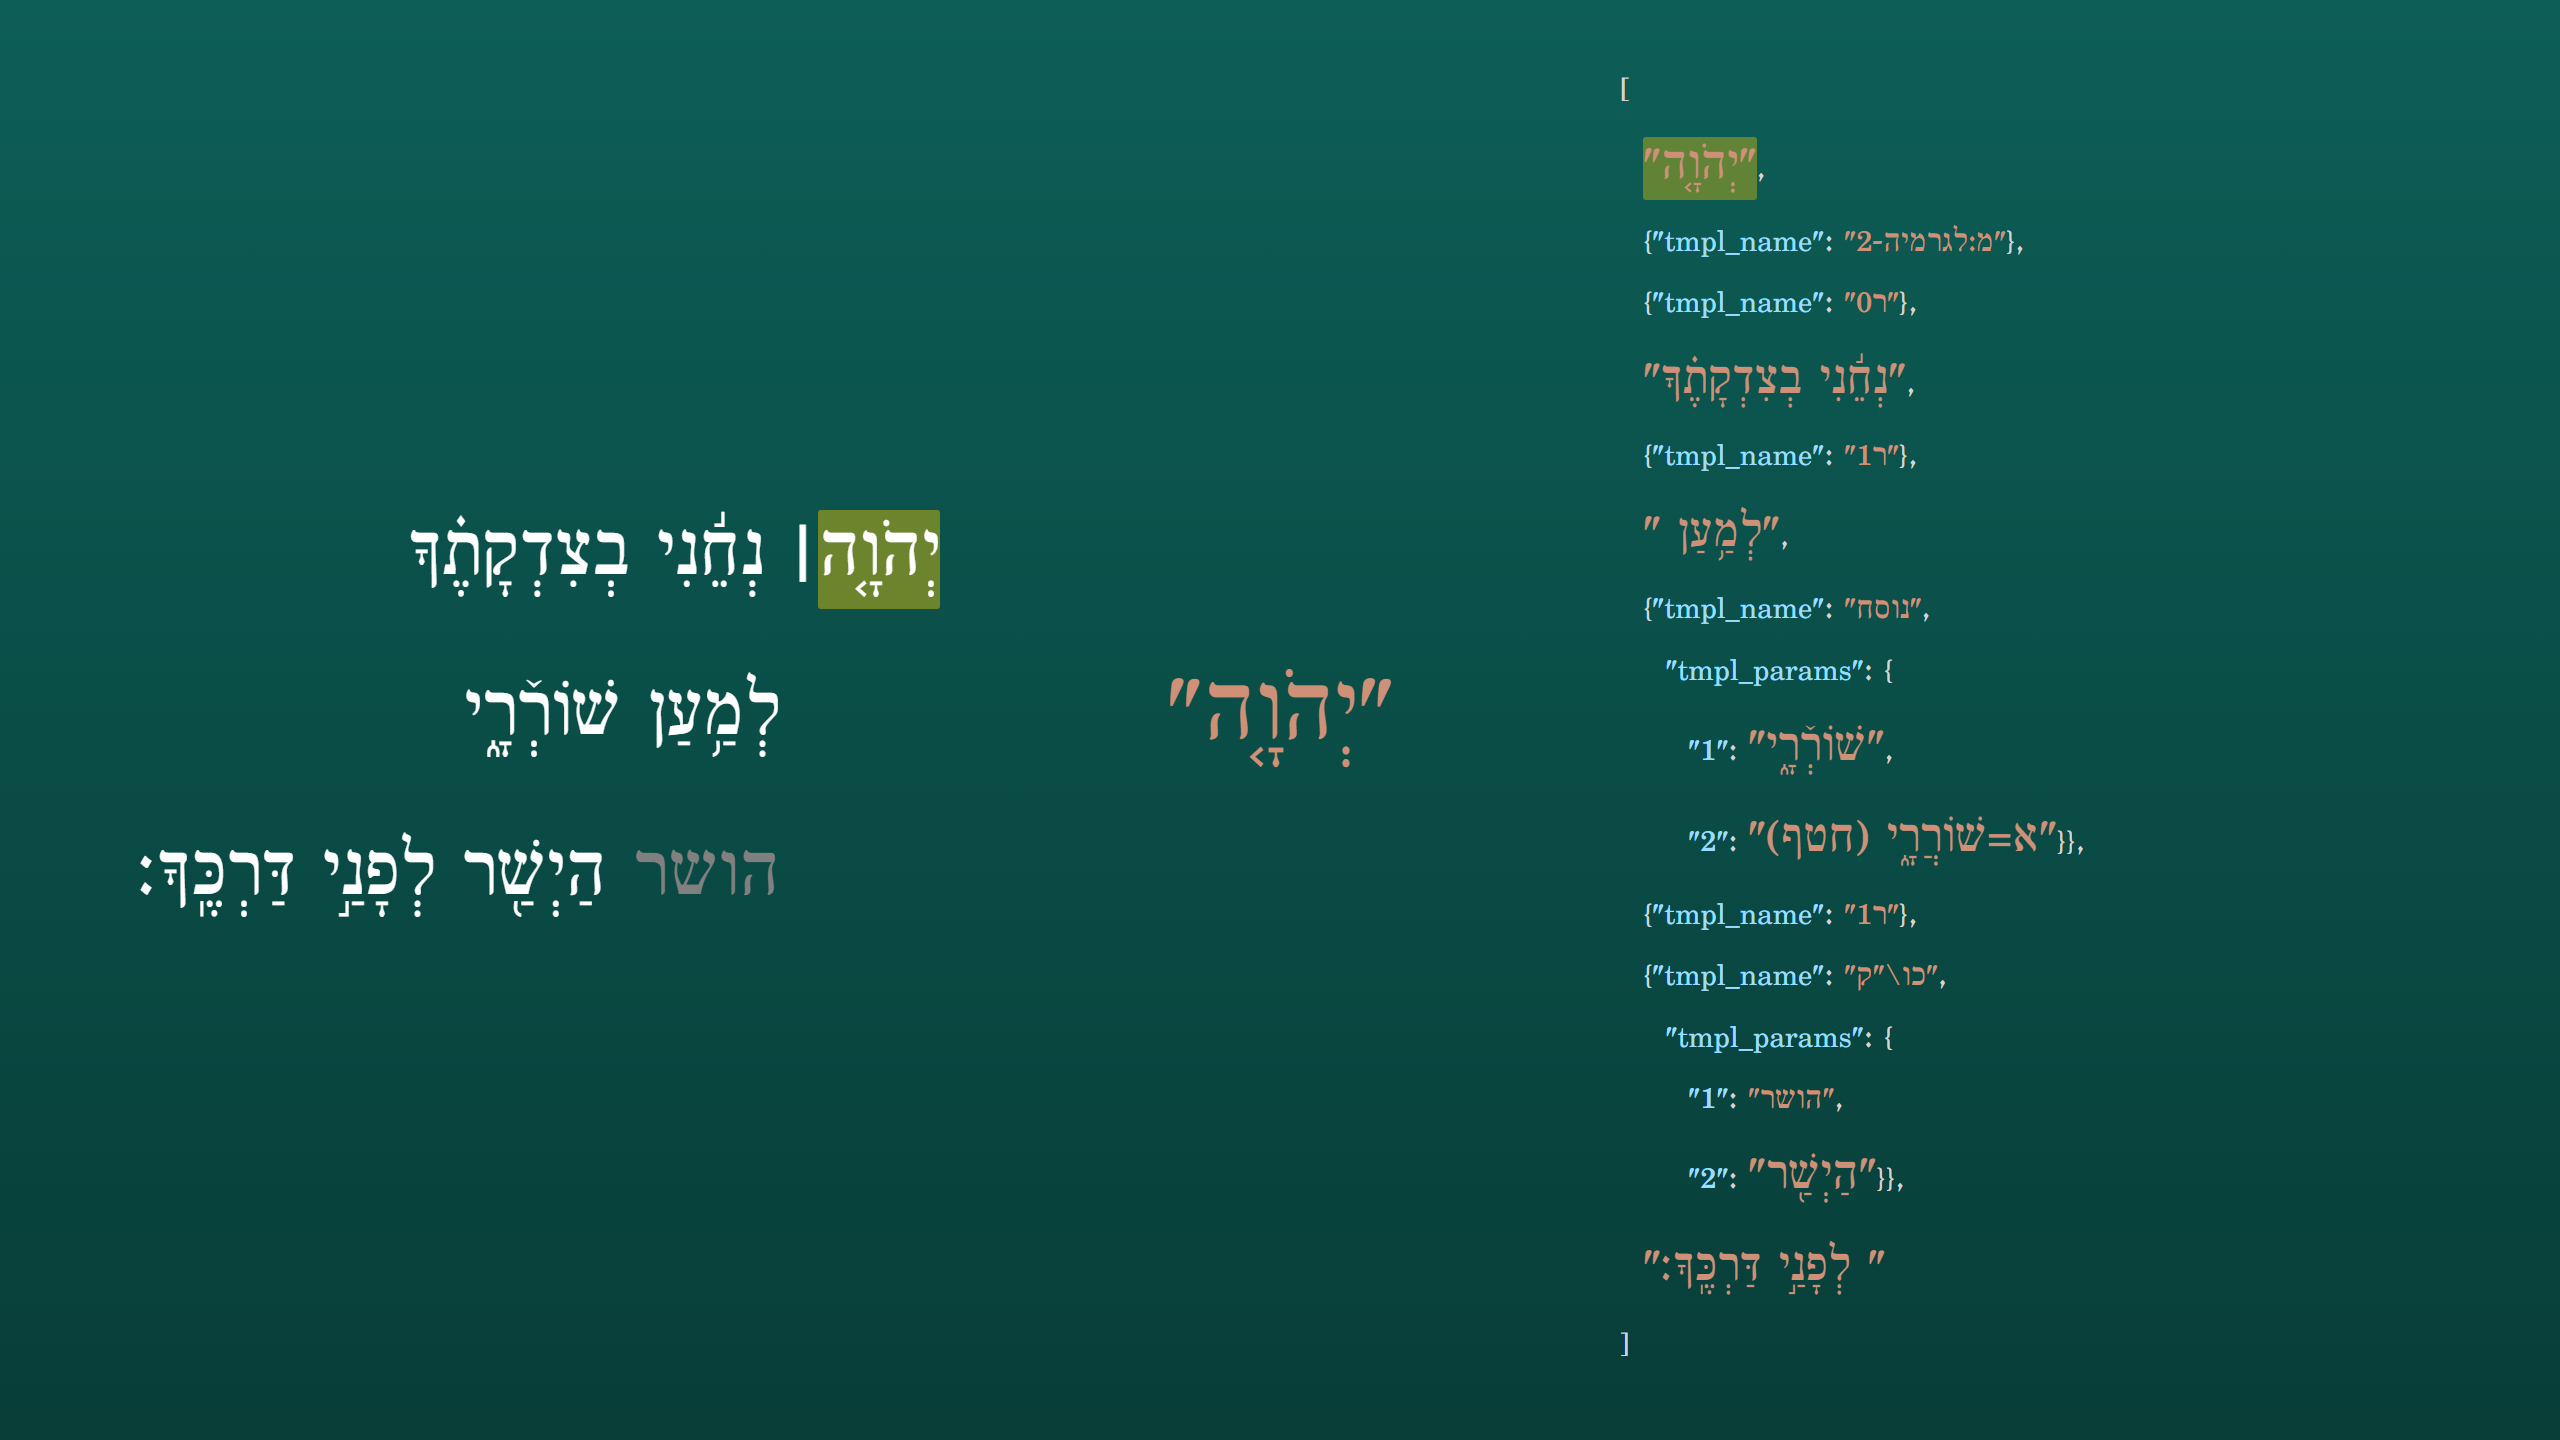
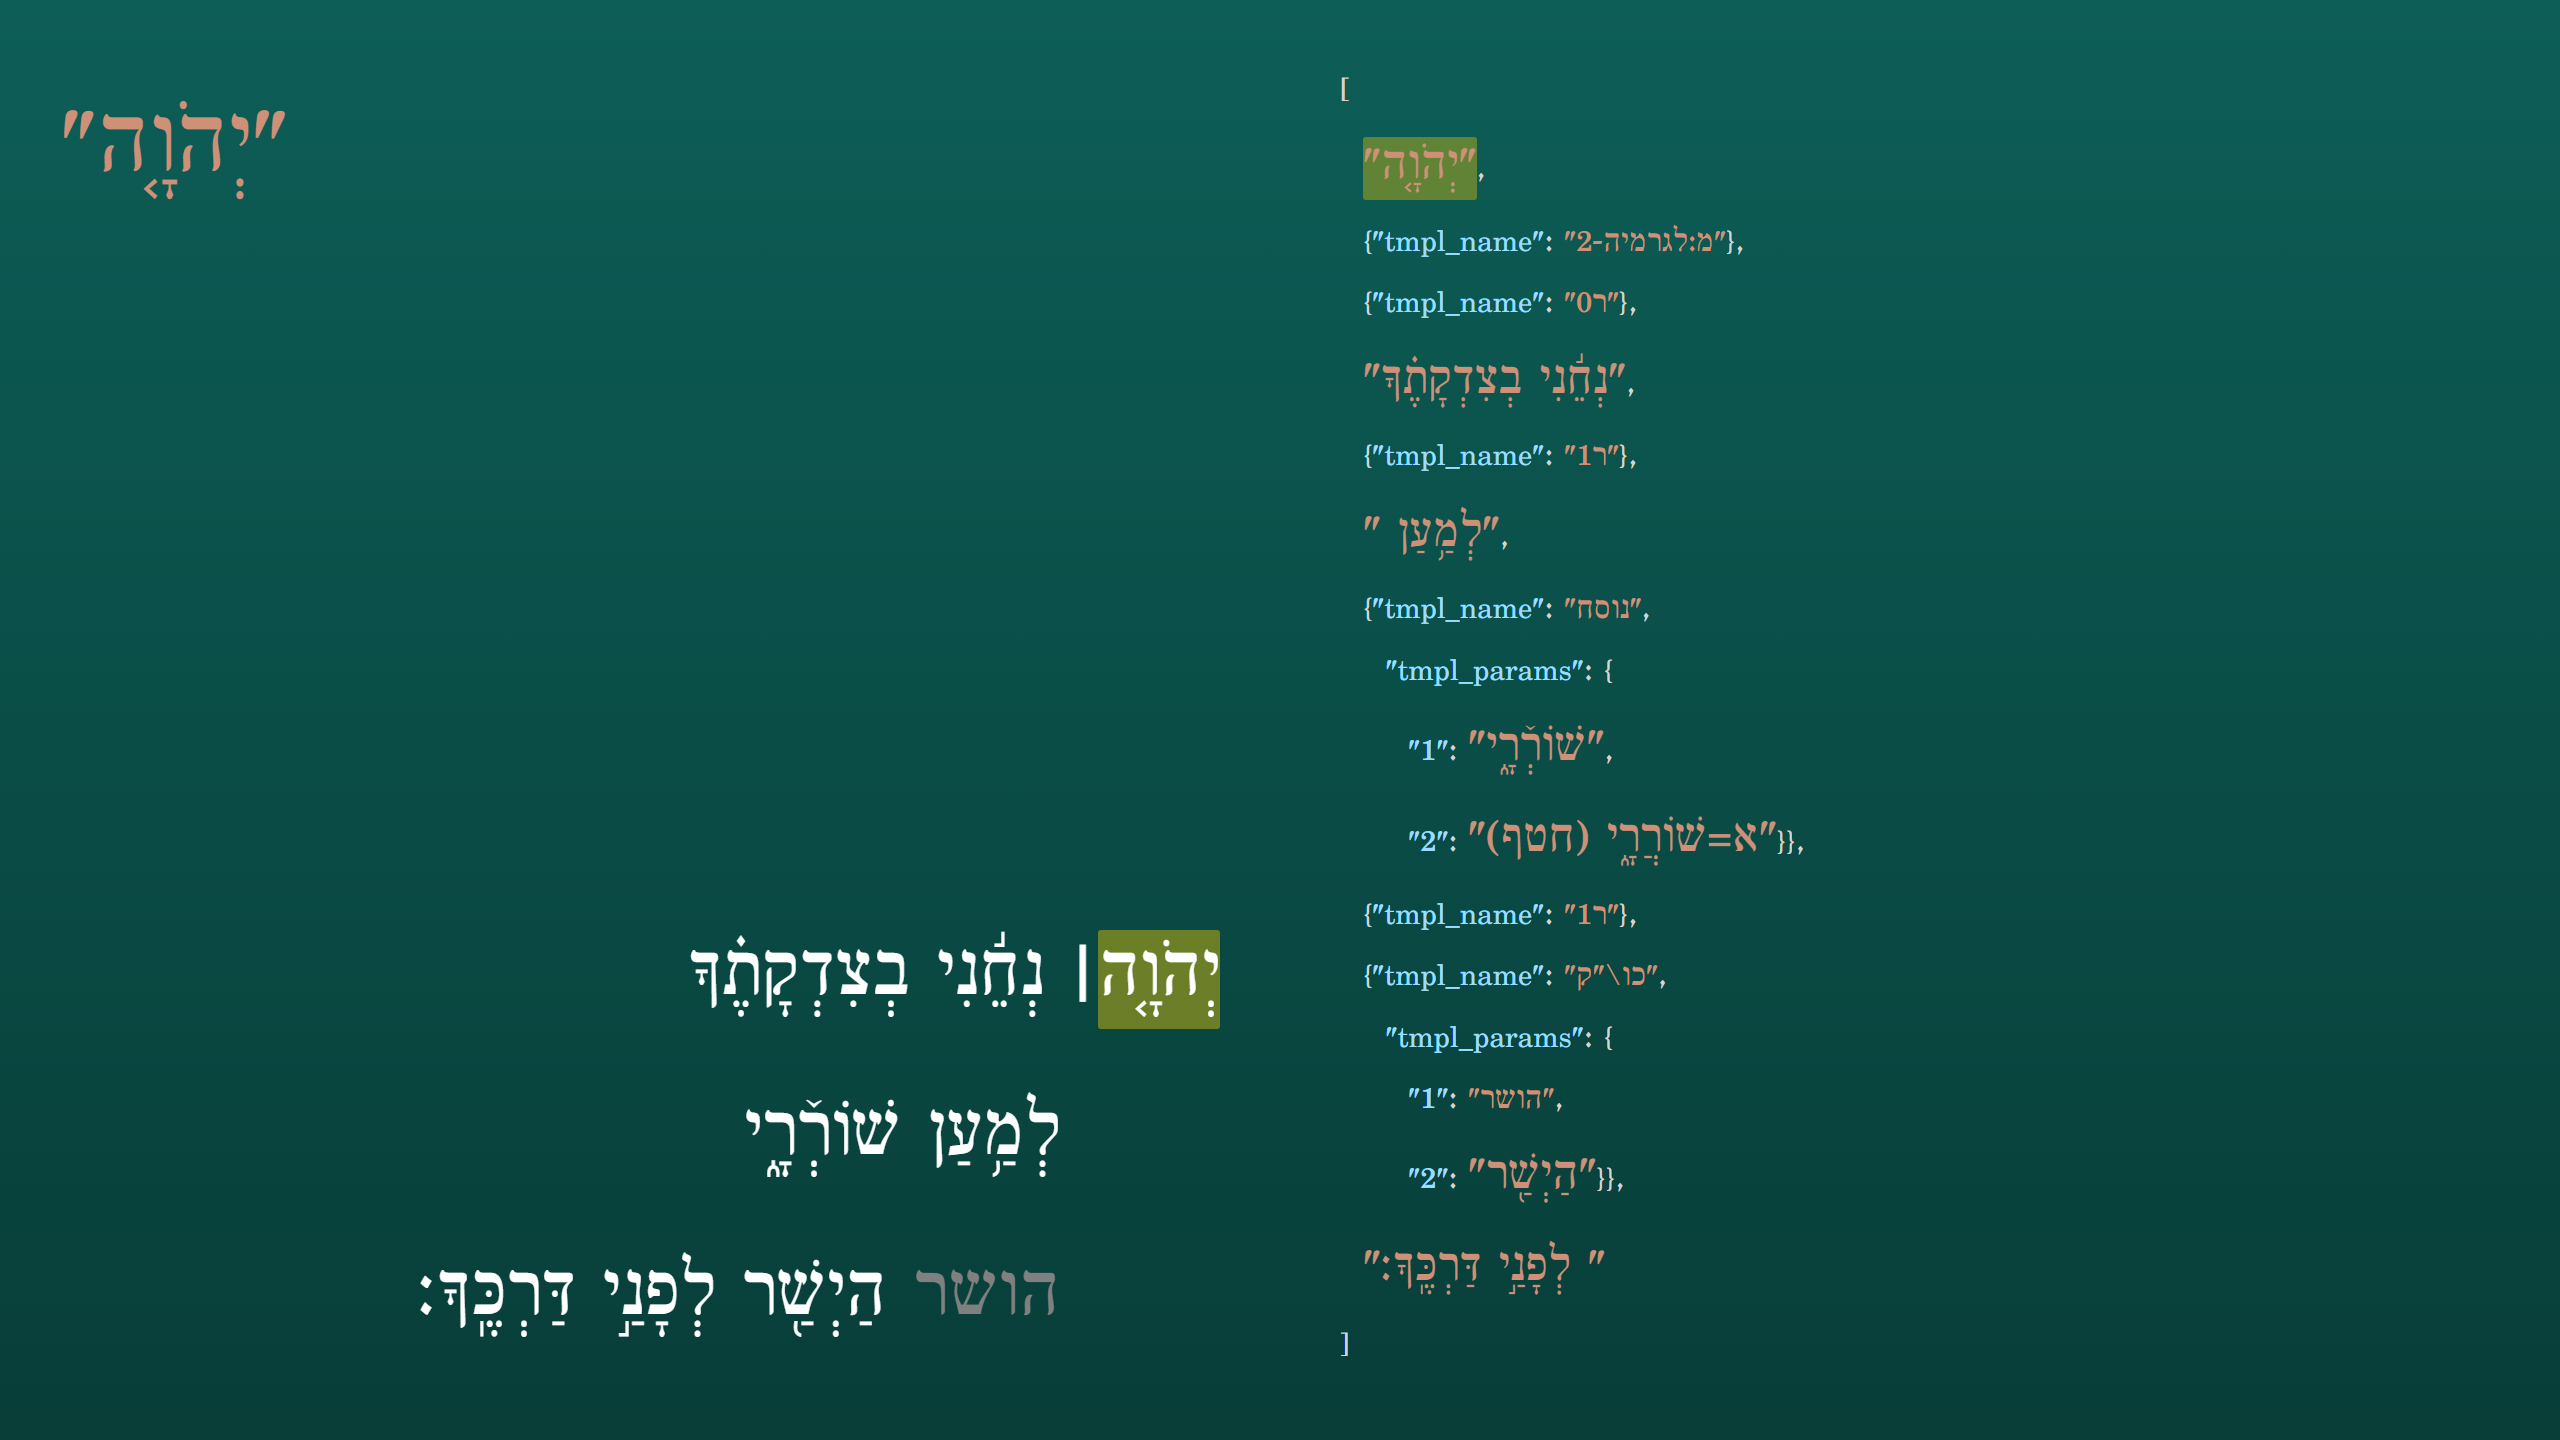
Add psalm-5v9-mpplus-step-2 slide; fix step-1 layout
- Add render_psalm_5v9_mpplus_step_2() in mam_is_a_dataset.py,
  highlighting "מ:לגרמיה-2" in the JSON and the paseq (׀) in the
  Wikisource fragment via the new companion_highlight_html parameter.
- Add companion_highlight_html param to render_json_snippet_browser
  and _build_html in json_snippet_browser.py, allowing the companion
  HTML highlight key to differ from the JSON highlight_text.
- Fix step-1 layout: collapse the 3-col body_html (when highlight_text
  is set) into a 2-col layout that stacks the zoom pane and companion
  in a single flex column; update step-1 docstring accordingly.
- Add step-2 img-source HTML and rendered PNG; update step-1 PNG.

diff --git a/misc/mam-is-a-dataset/img-sources/slide-psalm-5v9-mpplus-step-2.html b/misc/mam-is-a-dataset/img-sources/slide-psalm-5v9-mpplus-step-2.html
@@ -57,11 +57,11 @@
   }
 </style>
 </head>
-<body><div class="col" style="flex:2;flex-direction:column;justify-content:space-between;align-items:flex-start"><pre><bdi><span style="color:#ce9178; font-size:102px; font-feature-settings:'ss03'">"יְהֹוָ֤ה"</span></bdi></pre><div class="companion-html"><div><span class="hl">יְהֹוָ֤ה</span>&thinsp;<span style="font-weight: bold;">׀</span>&nbsp;נְחֵ֬נִי בְצִדְקָתֶ֗ךָ</div>
+<body><div class="col" style="flex:2;flex-direction:column;justify-content:space-between;align-items:flex-start"><pre><bdi><span style="color:#ce9178; font-size:102px; font-feature-settings:'ss03'">"מ:לגרמיה-2"</span></bdi></pre><div class="companion-html"><div>יְהֹוָ֤ה<span class="hl">&thinsp;<span style="font-weight: bold;">׀</span></span>&nbsp;נְחֵ֬נִי בְצִדְקָתֶ֗ךָ</div>
 <div style="padding-right: 2em;">לְמַ֥עַן שׁוֹרְﬞרָ֑י</div>
 <div style="padding-right: 2em;"><span style="color:Gray;">הושר</span> הַיְשַׁ֖ר לְפָנַ֣י דַּרְכֶּֽךָ׃</div></div></div><div class="col" style="flex:2;justify-content:flex-start"><pre><span style="color:#d4d4d4;">[</span><span style="color:#d4d4d4;">
-  </span><bdi><span style="color:#ce9178; background-color:rgba(255,210,0,0.35); border-radius:3px; font-size:51px; font-feature-settings:'ss03'">"יְהֹוָ֤ה"</span></bdi><span style="color:#d4d4d4;">,</span><span style="color:#d4d4d4;">
-  </span><span style="color:#d4d4d4;">{</span><span style="color:#9cdcfe;">"tmpl_name"</span><span style="color:#d4d4d4;">:</span><span style="color:#d4d4d4;"> </span><bdi><span style="color:#ce9178;">"מ:לגרמיה-2"</span></bdi><span style="color:#d4d4d4;">},</span><span style="color:#d4d4d4;">
+  </span><bdi><span style="color:#ce9178; font-size:51px; font-feature-settings:'ss03'">"יְהֹוָ֤ה"</span></bdi><span style="color:#d4d4d4;">,</span><span style="color:#d4d4d4;">
+  </span><span style="color:#d4d4d4;">{</span><span style="color:#9cdcfe;">"tmpl_name"</span><span style="color:#d4d4d4;">:</span><span style="color:#d4d4d4;"> </span><bdi><span style="color:#ce9178; background-color:rgba(255,210,0,0.35); border-radius:3px;">"מ:לגרמיה-2"</span></bdi><span style="color:#d4d4d4;">},</span><span style="color:#d4d4d4;">
   </span><span style="color:#d4d4d4;">{</span><span style="color:#9cdcfe;">"tmpl_name"</span><span style="color:#d4d4d4;">:</span><span style="color:#d4d4d4;"> </span><bdi><span style="color:#ce9178;">"ר0"</span></bdi><span style="color:#d4d4d4;">},</span><span style="color:#d4d4d4;">
   </span><bdi><span style="color:#ce9178; font-size:51px; font-feature-settings:'ss03'">"נְחֵ֬נִי בְצִדְקָתֶ֗ךָ"</span></bdi><span style="color:#d4d4d4;">,</span><span style="color:#d4d4d4;">
   </span><span style="color:#d4d4d4;">{</span><span style="color:#9cdcfe;">"tmpl_name"</span><span style="color:#d4d4d4;">:</span><span style="color:#d4d4d4;"> </span><bdi><span style="color:#ce9178;">"ר1"</span></bdi><span style="color:#d4d4d4;">},</span><span style="color:#d4d4d4;">

diff --git a/py/py_misc/json_snippet_browser.py b/py/py_misc/json_snippet_browser.py
@@ -66,6 +66,7 @@ def _build_html(
     companion_first: bool = False,
     companion_html: str = None,
     highlight_text: str = None,
+    companion_highlight_html: str = None,
 ) -> str:
     W, H = slide_render.W, slide_render.H
     font_uri = _TAAMEY_FONT.as_uri()
@@ -137,9 +138,14 @@ def _build_html(
     border-radius: 3px;
   }"""
         if companion_html is not None:
+            _hl_key = (
+                companion_highlight_html
+                if companion_highlight_html is not None
+                else highlight_text
+            )
             hl_companion = (
-                _highlight_companion_html(companion_html, highlight_text)
-                if highlight_text
+                _highlight_companion_html(companion_html, _hl_key)
+                if _hl_key
                 else companion_html
             )
             companion_content = f'<div class="companion-html">{hl_companion}</div>'
@@ -149,8 +155,10 @@ def _build_html(
             companion_content = ""
         if highlight_text:
             body_html = (
-                f'<div class="col" style="flex:2">{companion_content}</div>'
-                f'<div class="col"><pre>{zoom_html}</pre></div>'
+                f'<div class="col" style="flex:2;flex-direction:column;justify-content:space-between;align-items:flex-start">'
+                f"<pre>{zoom_html}</pre>"
+                f"{companion_content}"
+                f"</div>"
                 f'<div class="col" style="flex:2;justify-content:flex-start"><pre>{code_html}</pre></div>'
             )
         else:
@@ -226,6 +234,7 @@ def render_json_snippet_browser(
     companion_first: bool = False,
     companion_html_path: pathlib.Path = None,
     highlight_text: str = None,
+    companion_highlight_html: str = None,
 ) -> None:
     """Render a syntax-colored JSON snippet slide via Playwright/Chromium screenshot."""
     from playwright.sync_api import sync_playwright
@@ -252,6 +261,7 @@ def render_json_snippet_browser(
         companion_first,
         companion_html=companion_html,
         highlight_text=highlight_text,
+        companion_highlight_html=companion_highlight_html,
     )
 
     html_dest = json_path.parent.resolve() / f"slide-{slide_name}.html"

diff --git a/py/slide_generator/mam_is_a_dataset.py b/py/slide_generator/mam_is_a_dataset.py
@@ -112,7 +112,7 @@ def render_psalm_5v9_mpplus_step_0():
 
 
 def render_psalm_5v9_mpplus_step_1():
-    """Render slide-psalm-5v9-mpplus-step-1.png: 3-col with יְהֹוָ֤ה highlighted."""
+    """Render slide-psalm-5v9-mpplus-step-1.png: 2-col with יְהֹוָ֤ה highlighted."""
     json_snippet_browser.render_json_snippet_browser(
         IMAGES_DIR,
         DECK_NAME,
@@ -129,6 +129,25 @@ def render_psalm_5v9_mpplus_step_1():
     )
 
 
+def render_psalm_5v9_mpplus_step_2():
+    """Render slide-psalm-5v9-mpplus-step-2.png: 2-col with מ:לגרמיה-2 highlighted."""
+    json_snippet_browser.render_json_snippet_browser(
+        IMAGES_DIR,
+        DECK_NAME,
+        _PSALM_5V9_JSON,
+        "psalm-5v9-mpplus-step-2",
+        top_rgb=_TOP_RGB,
+        bot_rgb=_BOT_RGB,
+        companion_html_path=_PSALM_5V9_WS_FRAGMENT,
+        layout="row",
+        font_size_px=34,
+        pointed_scale=1.5,
+        companion_first=True,
+        highlight_text="מ:לגרמיה-2",
+        companion_highlight_html='&thinsp;<span style="font-weight: bold;">׀</span>',
+    )
+
+
 ALL_SLIDES = {
     "title-card": render_title_card,
     "psalm-5v9-sources": render_psalm_5v9_sources,
@@ -136,4 +155,5 @@ ALL_SLIDES = {
     "psalm-5v9-mpplus": render_psalm_5v9_mpplus,
     "psalm-5v9-mpplus-step-0": render_psalm_5v9_mpplus_step_0,
     "psalm-5v9-mpplus-step-1": render_psalm_5v9_mpplus_step_1,
+    "psalm-5v9-mpplus-step-2": render_psalm_5v9_mpplus_step_2,
 }

diff --git a/misc/mam-is-a-dataset/img/slide-psalm-5v9-mpplus-step-2-provenance.md b/misc/mam-is-a-dataset/img/slide-psalm-5v9-mpplus-step-2-provenance.md
@@ -1,0 +1,3 @@
+<!-- Auto-generated by py/main_slide_generator.py render-slides --deck mam-is-a-dataset psalm-5v9-mpplus-step-2. Do not edit by hand. -->
+
+Generated by `py/main_slide_generator.py render-slides --deck mam-is-a-dataset psalm-5v9-mpplus-step-2`.
